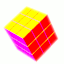
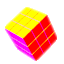
Добавлена прозрачность в иконку

diff --git a/main.cpp b/main.cpp
@@ -293,7 +293,7 @@ std::string getGPUName() {
     if (renderer) {
         return std::string(reinterpret_cast<const char*>(renderer));
     }
-    return "Неизвестная видеокарта";
+    return "Неизвестная видеока��та";
 }
 
 // Добавьте ту функцию перед main():
@@ -439,6 +439,50 @@ std::string getRAMInfo() {
     std::stringstream ss;
     ss << std::fixed << std::setprecision(2) << ram_gb << " GB";
     return "RAM: " + ss.str();
+}
+
+// Добавьте эту функцию перед main()
+GLFWimage createTransparentIcon(const char* filename, int targetSize) {
+    GLFWimage icon = {};
+    int width, height, channels;
+    unsigned char* data = stbi_load(filename, &width, &height, &channels, 4); // Всегда загружаем с альфа-каналом
+
+    if (!data) {
+        std::cerr << "Failed to load icon: " << filename << std::endl;
+        return icon;
+    }
+
+    // Создаем новое изображение с заданным размером и прозрачным фоном
+    icon.width = targetSize;
+    icon.height = targetSize;
+    icon.pixels = new unsigned char[targetSize * targetSize * 4];
+    memset(icon.pixels, 0, targetSize * targetSize * 4); // Заполняем прозрачным черным цветом
+
+    // Вычисляем коэффициент масштабирования
+    float scale = std::min((float)targetSize / width, (float)targetSize / height);
+    int newWidth = static_cast<int>(width * scale);
+    int newHeight = static_cast<int>(height * scale);
+
+    // Вычисляем отступы для центрирования
+    int offsetX = (targetSize - newWidth) / 2;
+    int offsetY = (targetSize - newHeight) / 2;
+
+    // Копируем и масштабируем изображение
+    for (int y = 0; y < newHeight; ++y) {
+        for (int x = 0; x < newWidth; ++x) {
+            int srcX = static_cast<int>(x / scale);
+            int srcY = static_cast<int>(y / scale);
+            int srcIndex = (srcY * width + srcX) * 4;
+            int dstIndex = ((y + offsetY) * targetSize + (x + offsetX)) * 4;
+
+            for (int c = 0; c < 4; ++c) {
+                icon.pixels[dstIndex + c] = data[srcIndex + c];
+            }
+        }
+    }
+
+    stbi_image_free(data);
+    return icon;
 }
 
 int main()
@@ -675,15 +719,13 @@ int main()
     std::string cpuInfo = getCPUInfo();
     std::string ramInfo = getRAMInfo();
 
-    // Замените код создания иконки на следующий:
-    GLFWimage icon;
-    int channels;
-    icon.pixels = stbi_load("include/ico.png", &icon.width, &icon.height, &channels, 4);
+    // В функции main(), замените код установки иконки на следующий:
+    GLFWimage icon = createTransparentIcon("include/ico.png", 32); // 32x32 - типичный размер иконки
     if (icon.pixels) {
         glfwSetWindowIcon(window, 1, &icon);
-        stbi_image_free(icon.pixels);
+        delete[] icon.pixels; // Освобождаем память
     } else {
-        std::cerr << "Failed to load icon" << std::endl;
+        std::cerr << "Failed to create icon" << std::endl;
     }
 
     // Главный цикл рендеринга
